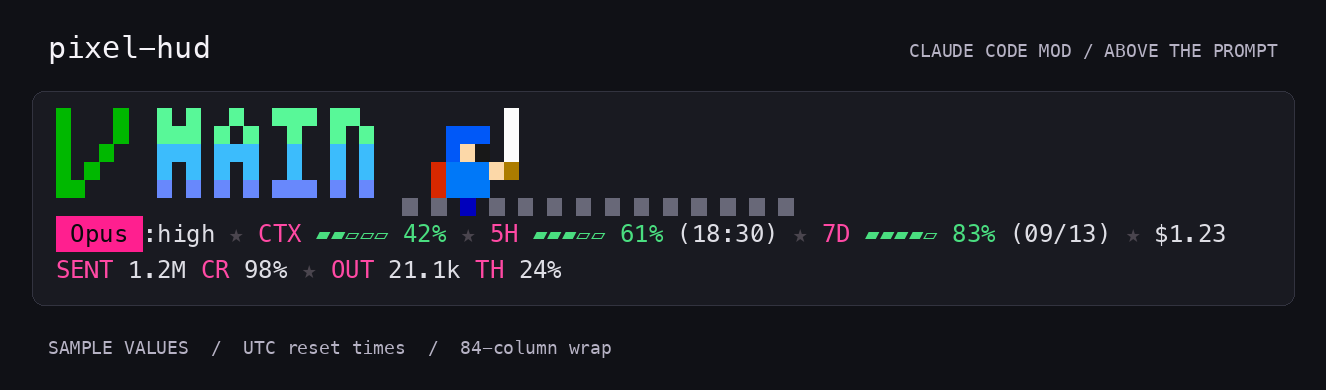
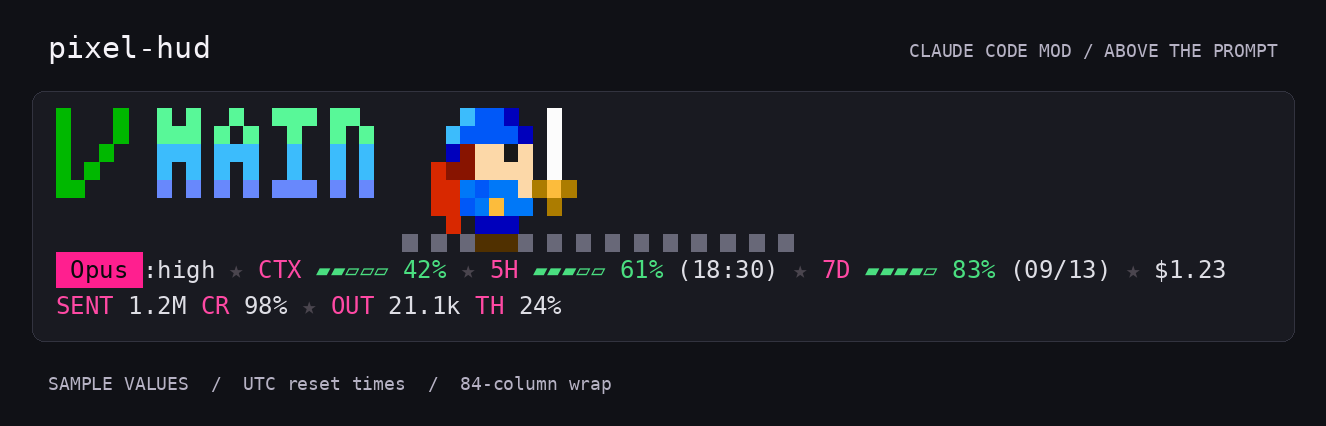
docs(pixel-hud): refresh the eight-pixel quest showcase

diff --git a/docs/specs/quest-stage.md b/docs/specs/quest-stage.md
@@ -72,8 +72,8 @@ slime theme stays the default and does not change.
 - **A stage seam.** Today `register.tsx` imports slime functions directly
   (`slimeCells`, `slimeColumns`, `slimeText`, `canCrown`, `nextMoment`,
   `momentEndTick`). Ticket 01 puts these behind one `Stage` interface that a
-  theme implements: its columns for a given room, its cells for a tick and a
-  moment, its text fallback, its moment endpoints and priority. `register`
+  theme implements: its row count, its columns for a given room, its cells
+  for a tick and a moment, its text fallback, its moment endpoints and priority. `register`
   picks the implementation from `options.stage` once and never branches on
   the theme again. The slime module implements it with no behaviour change;
   the existing tests are the proof.
@@ -89,32 +89,37 @@ slime theme stays the default and does not change.
 
 - The quest stage takes the same room `fitBranch` grants the slimes:
   `slimeColumns(n)` columns, so 28, 21, 14 or 7.
-- Below `QUEST_MIN_COLUMNS = 17` (so 14 or 7) there is no quest stage: no
+- Below `QUEST_MIN_COLUMNS = 25` (so 21, 14 or 7) there is no quest stage: no
   Raster, no text fallback, and battles are not admitted. The branch layout
-  rules are unchanged.
+  reserves four quest rows plus two meter rows. The minimum is computed from
+  the hero's left offset, attack width, two-column gap and widest monster
+  (9 columns).
 
 ### Sprites
 
 Original pixel art in the NES palette the slimes use. Do not copy any
-published game's sprites. The stage stays 6 pixels tall.
+published game's sprites. The quest stage is 8 pixels tall (4 text rows); the
+slime stage stays 6 pixels tall (3 text rows).
 
-- **Hero**: about 5 wide by 6 tall. Blue armour, a skin-tone face, a sword.
+- **Hero**: about 10 wide by 8 tall (12 wide when attacking). Blue armour,
+  a skin-tone face, a sword.
   Poses: WALK_A and WALK_B (legs apart, legs together), STAND, ATTACK (sword
   forward), HURT (for flicker), CHEER (sword up, for level-up). The hero
   stands near the left of the stage, about column 2.
 - **Ground**: the bottom pixel row is a dotted ground line that scrolls left
   one pixel every 2 ticks while the hero walks. No other background.
-- **Monsters**, about 5 to 7 wide and up to 6 tall: `slime` (a green
+- **Monsters**, up to 9 wide and 7 to 8 tall: `slime` (a green
   quest-slime, not one of the slime family's kin), `bat` (purple, wings
   flapping between two frames), `skeleton` (bone white), `ghost` (pale blue,
   bobbing one pixel).
 - **Skills**:
   - `slash`: the hero steps forward one pixel in ATTACK, and a white
     diagonal streak appears over the monster for 2 ticks.
-  - `fireball`: an orange 2×2 pixel ball travels from the hero's sword to the
-    monster, about 1 pixel every tick, at most 6 ticks.
+  - `fireball`: an orange 3×3 pixel ball with a lighter centre travels from
+    the hero's sword at the attack blade row to the monster, about 1 pixel
+    every tick, at most 6 ticks.
   - `thunder`: a yellow zigzag bolt drops from the top of the stage onto the
-    monster for 3 ticks.
+    monster for 3 ticks, growing from 2 to 4 to all 8 pixel rows.
 - The builder finalises the pixels by rendering them with the showcase
   renderer. The silhouettes and colours are the decision, not the exact
   pixels.
@@ -202,7 +207,8 @@ ground line. No monster.
     some tick of Hit, and ends with no monster pixel left.
   - The frame after a battle's end equals the plain walk frame at that tick.
   - The battle lasts 2.4 to 3 seconds at `FRAME_MS`.
-  - Under 17 columns there is no stage.
+  - Under 25 columns there is no stage.
+  - Quest Raster and text fallback use 4 rows; slime Raster stays at 3.
   - Encounter starts with the hero off its spot and ends on the rest frame.
   - Level-up contains gold.
 - **Seam 2, the mod through `claude-code/testing`**:
@@ -213,7 +219,7 @@ ground line. No monster.
     the monster.
   - A subagent `turn.complete`, or a reason other than `answer`, does not.
   - A second `turn.complete` during a battle does not restart it.
-  - Under 17 columns, `turn.complete` blits nothing.
+  - Under 25 columns, `turn.complete` blits nothing.
   - Tool failure and compaction blit the quest damage and level-up.
   - `/slime-king` on the quest stage returns the quest reply.
   - With `slimesIdle: false` nothing blits at rest on the quest stage.

diff --git a/docs/adr/0013-one-moment-owns-the-stage.md b/docs/adr/0013-one-moment-owns-the-stage.md
@@ -35,7 +35,8 @@ clock at once, in mid-air for 87 of 200 start ticks.
 - **Queue dropped Moments:** a backlog of failures or compactions would replay
   long after the cause, and a queued damage after a King show reads as a bug.
 - **Layer Moments, for example damage over the King:** each pair would need its
-  own compositing rules, and the stage is only three rows high.
+  own compositing rules, and the slime stage is only three rows high
+  (the quest theme uses four).
 - **Per-kind expiry in `register`:** the shape before #10. Every new kind
   would need its own check, and a missed one never ends.
 - **Rejoin the global clock at once:** simplest, but it drops Kin into the air
